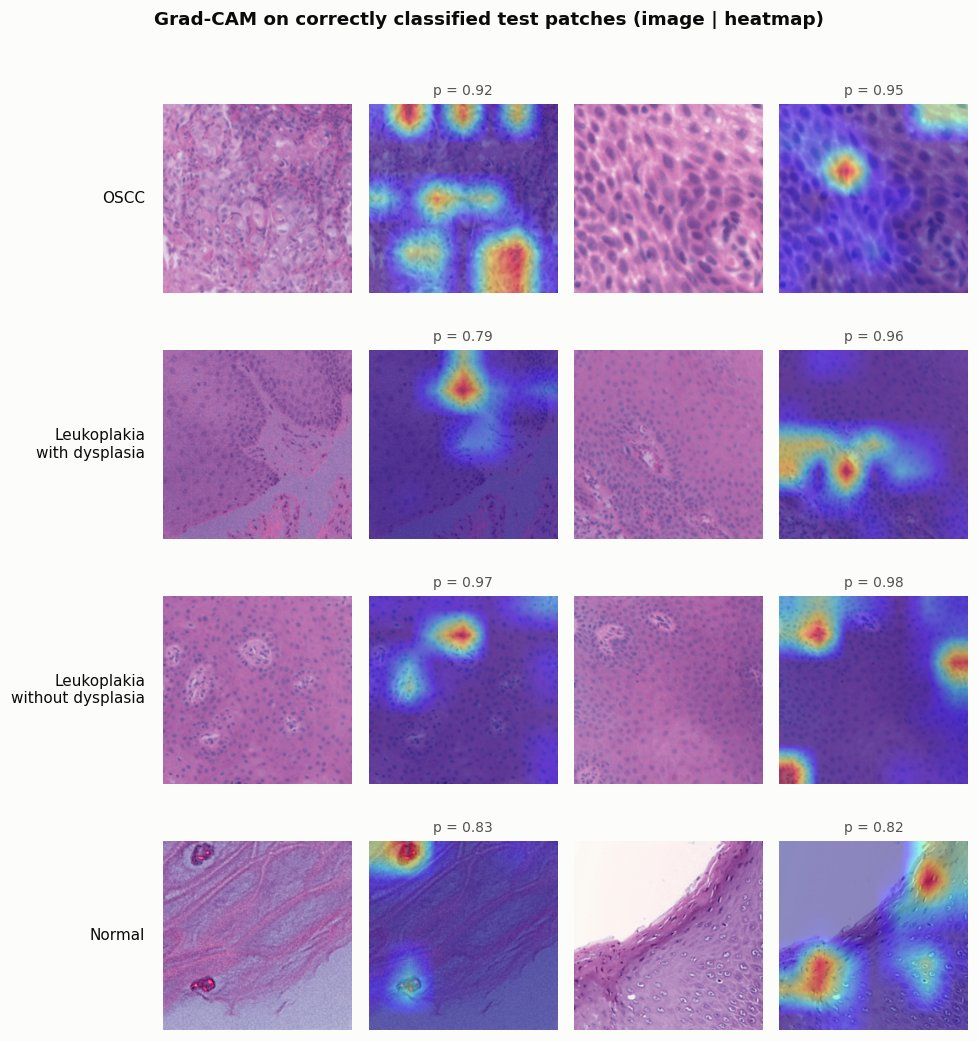
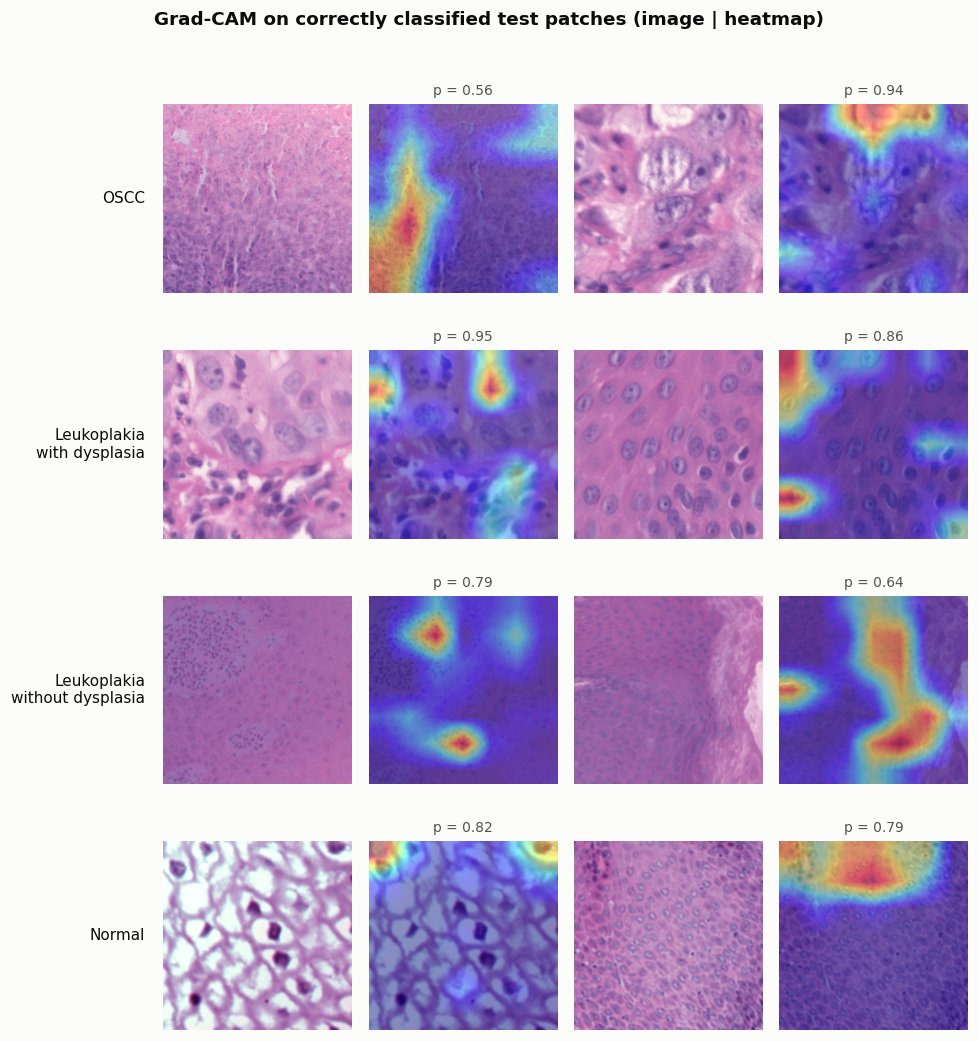
Update results after sharpness matching; make 3-class the primary result
- Retrained on sharpness-matched data: 3-class 90.9% balanced accuracy
  (primary, vs 91.9% published), 4-class 88.6%, greyscale 91.6%;
  Normal F1 still 98.9%
- Grad-CAM re-check: Normal border share only fell from ~65% to ~60%,
  so Normal is still recognised from image-level source cues (likely
  brightness/contrast); documented as a cross-dataset limitation
- README: new results, before/after tables, updated explainability,
  limitations and status
- Figures: 3-class + 4-class confusion matrices, before/after border
  check, regenerated curves, per-class F1 and Grad-CAM
- docs/guide_presentation.md: plain-language walkthrough for the guide
- CLAUDE.md status; .gitignore runs_before_blur/

diff --git a/scripts/reporting/make_readme_figures.py b/scripts/reporting/make_readme_figures.py
@@ -267,25 +267,32 @@ def fig_training_curves():
 # 5. CLASSIFICATION: CONFUSION MATRIX
 # ============================================================
 
-def fig_confusion_matrix():
-    preds = pd.read_csv(RUNS / MAIN_RUN / "test_predictions.csv")
-    cm = confusion_matrix(preds["class"], preds["predicted"], labels=CLASSES_4)
+def draw_confusion(ax, run, classes, title):
+    preds = pd.read_csv(RUNS / run / "test_predictions.csv")
+    cm = confusion_matrix(preds["class"], preds["predicted"], labels=classes)
     pct = cm / cm.sum(axis=1, keepdims=True) * 100
+    n = len(classes)
 
-    fig, ax = plt.subplots(figsize=(6.6, 5.6))
     ax.imshow(pct, cmap="Blues", vmin=0, vmax=100)
-    labels = [CLASS_LABELS[c] for c in CLASSES_4]
-    ax.set_xticks(range(4), labels, fontsize=9)
-    ax.set_yticks(range(4), labels, fontsize=9)
+    labels = [CLASS_LABELS[c] for c in classes]
+    ax.set_xticks(range(n), labels, fontsize=9)
+    ax.set_yticks(range(n), labels, fontsize=9)
     ax.set_xlabel("Predicted")
     ax.set_ylabel("True")
-    for i in range(4):
-        for j in range(4):
+    for i in range(n):
+        for j in range(n):
             ax.text(j, i, f"{pct[i, j]:.1f}%\n({cm[i, j]})", ha="center", va="center", fontsize=9,
                     color="white" if pct[i, j] > 55 else TEXT_PRIMARY)
     for s in ax.spines.values():
         s.set_visible(False)
-    ax.set_title("Test confusion matrix — 4-class (n = 1,049)", loc="left")
+    ax.set_title(f"{title} (n = {cm.sum():,})", loc="left")
+
+
+def fig_confusion_matrix():
+    fig, axes = plt.subplots(1, 2, figsize=(13, 5.6), gridspec_kw={"width_ratios": [3, 4]})
+    draw_confusion(axes[0], "convnext_tiny_3class_224px", CLASSES_4[:3], "3-class, NDB-UFES (primary)")
+    draw_confusion(axes[1], MAIN_RUN, CLASSES_4, "4-class")
+    fig.suptitle("Test confusion matrices", fontweight="bold", x=0.01, ha="left")
     plt.tight_layout()
     save(fig, "confusion_matrix.png")
 
@@ -372,26 +379,34 @@ def fig_border_check():
         ("Normal (interior of source image)", "Normal: interior tiles"),
         ("Normal (edge of source image)", "Normal: edge tiles"),
     ]
-    summary = summary.set_index("group").loc[[g for g, _ in order]]
+    groups = [g for g, _ in order]
 
-    fig, ax = plt.subplots(figsize=(9, 3.6))
-    y = np.arange(len(order))[::-1]
-    colors = [SERIES[0]] * 3 + [SERIES[1]] * 2
-    vals = summary["border_share_mean"].values * 100
-    ax.barh(y, vals, height=0.6, color=colors)
-    for yi, v, n in zip(y, vals, summary["images"].values):
-        ax.text(v + 0.8, yi, f"{v:.0f}%  (n = {n})", va="center", fontsize=9)
+    # Before = model trained before sharpness matching (runs_before_blur/),
+    # after = current model (runs/)
+    series = [("before sharpness matching", RUNS.parent / "runs_before_blur"), ("after", RUNS)]
+    series = [(label, root) for label, root in series
+              if (root / MAIN_RUN / "gradcam" / "border_check_summary.csv").exists()]
+
+    fig, ax = plt.subplots(figsize=(9.5, 4.4))
+    y = np.arange(len(order))[::-1].astype(float)
+    height = 0.8 / len(series)
+
+    for k, (label, root) in enumerate(series):
+        s = pd.read_csv(root / MAIN_RUN / "gradcam" / "border_check_summary.csv").set_index("group").loc[groups]
+        vals = s["border_share_mean"].values * 100
+        offset = (len(series) - 1) / 2 * height - k * height
+        ax.barh(y + offset, vals, height=height * 0.9, color=SERIES[k], label=label)
+        for yi, v in zip(y + offset, vals):
+            ax.text(v + 0.8, yi, f"{v:.0f}%", va="center", fontsize=8.5)
 
     ax.axvline(49.0, color=TEXT_SECONDARY, linewidth=1, linestyle="--")
-    ax.text(49.6, y.min() - 0.62, "even spread (49%)", ha="left", fontsize=8, color=TEXT_SECONDARY)
-    ax.set_ylim(y.min() - 0.9, y.max() + 0.5)
+    ax.text(49.6, y.min() - 0.68, "even spread (49%)", ha="left", fontsize=8, color=TEXT_SECONDARY)
+    ax.set_ylim(y.min() - 0.9, y.max() + 0.6)
     ax.set_yticks(y, [label for _, label in order])
     ax.set_xlim(0, 100)
-    ax.set_xlabel("Share of Grad-CAM heatmap on the patch border (%)")
-    ax.set_title("Normal predictions rely on patch borders, not localized tissue", loc="left")
-    ax.legend(handles=[mpatches.Patch(color=SERIES[0], label="NDB-UFES classes"),
-                       mpatches.Patch(color=SERIES[1], label="Normal (second dataset)")],
-              loc="upper right")
+    ax.set_xlabel("Share of Grad-CAM heatmap on the patch border (%), all 1,049 test images")
+    ax.set_title("Normal predictions still rely on patch borders after sharpness matching", loc="left")
+    ax.legend(loc="upper right")
     clean_axes(ax, grid_axis="x")
     save(fig, "gradcam_border_check.png")
 

diff --git a/README.md b/README.md
@@ -15,12 +15,12 @@ Deep-learning pipeline for **four-class classification of oral histopathology pa
 
 | | Result |
 |---|---|
-| **4-class ConvNeXt-Tiny** (test, n = 1,049) | **92.8% balanced accuracy · 92.5% macro-F1 · 0.982 macro AUC** |
-| NDB-UFES classes within the 4-class model | 91.1% balanced accuracy (published DenseNet-121 benchmark: 91.9%) |
+| **3-class ConvNeXt-Tiny** (primary; NDB-UFES, test n = 627) | **90.9% balanced accuracy · 90.6% macro-F1 · 0.980 macro AUC** (published DenseNet-121 benchmark on the same folds: 91.9%) |
+| 4-class ConvNeXt-Tiny (+ Normal, test n = 1,049) | 88.6% balanced accuracy · 89.4% macro-F1 · Normal F1 98.9% (cross-dataset, see below) |
 | **MedSAM segmentation** (all 6,626 patches) | Masks cover a median **95–98%** of each patch, so the ROI is the whole patch |
-| Explainability | Grad-CAM + a sharpness test show **Normal** is recognised largely from image sharpness (AUC 0.95 from one number), a dataset shortcut. It is now mitigated by sharpness matching; retraining is pending |
+| **Shortcut analysis** | The Normal class is separable by image-level properties of its source dataset (sharpness, brightness, contrast). Sharpness was removed by calibrated blur; Grad-CAM still shows border-focused, image-level evidence for Normal |
 
-These are results from a single training run per setting. See [Limitations](#limitations).
+These are results from a single training run per setting; between single runs, scores varied by 3–5 points. See [Limitations](#limitations).
 
 ---
 
@@ -130,15 +130,25 @@ A meaningful segmentation target for this data would be the **epithelium**, wher
 
 ### Results (test set)
 
-*Models trained **before** sharpness matching; retraining on the sharpness-matched data is pending.*
+Current models are trained on the **sharpness-matched** data (see [Explainability](#explainability-grad-cam)).
 
-| Run | Accuracy | Balanced acc. | Macro-F1 | Macro AUC |
-|---|---|---|---|---|
-| **4-class** | **94.2%** | **92.8%** | **92.5%** | **0.982** |
-| 4-class, greyscale input | 92.5% | 91.2% | 90.4% | 0.981 |
-| 3-class (NDB-UFES only) | 89.6% | 88.3% | 89.0% | 0.972 |
+| Run | Accuracy | Balanced acc. | Macro-F1 | Macro AUC | Normal F1 |
+|---|---|---|---|---|---|
+| **3-class, NDB-UFES (primary)** | **90.9%** | **90.9%** | **90.6%** | **0.980** | — |
+| 4-class | 91.9% | 88.6% | 89.4% | 0.981 | 98.9% |
+| 4-class, greyscale input | 93.2% | 91.6% | 91.5% | 0.981 | 98.3% |
 
-**Comparison with published work.** On the NDB-UFES test patches, the 4-class model reaches **91.1%** balanced accuracy, against **91.9%** for DenseNet-121 in Maia et al. (2024) on the same folds. The separate 3-class run (88.3%) stopped early and its validation scores fluctuated. With one run per setting, differences of 2–3 points are within run-to-run variation.
+**Why 3-class is the primary result.** All three NDB-UFES classes come from the same source, so the cross-dataset shortcut described below cannot apply. This makes it the fair comparison with published work: **90.9%** balanced accuracy vs **91.9%** for DenseNet-121 in Maia et al. (2024), on the same official folds.
+
+**Before vs after sharpness matching** (single runs each):
+
+| Run | Balanced acc. before | Balanced acc. after |
+|---|---|---|
+| 3-class | 88.3% | 90.9% |
+| 4-class | 92.8% | 88.6% |
+| 4-class, greyscale | 91.2% | 91.6% |
+
+The 3-class data was not changed by sharpness matching (it contains no Normal tiles), yet its score moved by 2.6 points, mainly through run-to-run variation (the blur augmentation was also added). Single-run differences of this size are therefore not meaningful; multi-seed runs (mean ± SD) are planned.
 
 ![Confusion matrix](docs/images/confusion_matrix.png)
 
@@ -154,13 +164,14 @@ Errors are almost entirely between **adjacent grades** (OSCC ↔ with dysplasia,
 
 ![Grad-CAM examples](docs/images/gradcam_examples.jpg)
 
-For the NDB-UFES classes, heatmaps highlight tissue regions such as cell-dense areas and atypical nuclei. For **Normal**, the strongest activation often lies at the patch edge. A border-focus check over **all** 1,049 test images quantifies this:
+For the NDB-UFES classes, heatmaps highlight tissue regions such as cell-dense areas and atypical nuclei. For **Normal**, the strongest activation often lies at the patch edge, mostly the top edge. A border-focus check over **all** 1,049 test images quantifies this, both for the model trained before sharpness matching and for the current model:
 
 ![Grad-CAM border check](docs/images/gradcam_border_check.png)
 
-- **NDB-UFES classes:** heatmaps are spread about as evenly as chance (49–54% of the heatmap on the border).
-- **Normal:** two thirds of the heatmap lies on the border, and the peak is on the border in 71–78% of images.
-- Tiles from the edge and from the interior of the source image behave the same, which **rules out** lighting or edge artefacts of the original microscope images.
+- **NDB-UFES classes:** heatmaps are spread about as evenly as chance (46–54% of the heatmap on the border).
+- **Normal, before sharpness matching:** about two thirds of the heatmap lies on the border, and the peak is on the border in 71–78% of images.
+- **Normal, after sharpness matching:** still 59–61% on the border, and the peak is on the border in 71–79% of images.
+- Tiles from the edge and from the interior of the source image behave the same, which **rules out** lighting or edge artefacts of the original microscope images. The top rows of Normal tiles are also no brighter than the rest (157 vs 154 mean intensity), so the edge focus is not a visible artefact in the pixels. It is how the network represents an image-level property.
 
 **Sharpness test.** Each global image property is reduced to one number per image and used *alone* to separate Normal from the NDB-UFES classes (250 images per class, `scripts/analysis/check_sharpness.py`):
 
@@ -172,15 +183,22 @@ For the NDB-UFES classes, heatmaps highlight tissue regions such as cell-dense a
 
 Normal tiles are about 5× sharper. This global property explains both the border-focused Grad-CAM and Normal staying at ~99% F1 in greyscale: the earlier Normal result was largely a **dataset shortcut**.
 
-**Mitigation.** A Gaussian blur on Normal tiles was calibrated by sweeping σ. σ = 2.5 px (512 px) was chosen. On the regenerated, sharpness-matched data, the sharpness AUC at the model's 224 px input dropped from 0.95 to **0.52**. Brightness and contrast cues remain (AUC 0.76 / 0.81) and are addressed by colour/brightness augmentation. The cross-dataset Normal class therefore stays a documented limitation, and the **3-class NDB-UFES result is the primary, shortcut-free benchmark**.
+**Mitigation.** A Gaussian blur on Normal tiles was calibrated by sweeping σ. σ = 2.5 px (512 px) was chosen. On the regenerated, sharpness-matched data, the sharpness AUC at the model's 224 px input dropped from 0.95 to **0.52**. Brightness and contrast cues remain (AUC 0.76 / 0.81); Normal tiles are clearly brighter (mean intensity ~155 vs ~141).
+
+**Result after retraining.** Normal F1 stayed at 98.9% (98.3% in greyscale), and the Grad-CAM border focus for Normal only dropped from ~65% to ~60%. Removing sharpness did **not** force the model to use localised tissue features for Normal. It still separates Normal by image-level differences between the two source datasets, most likely brightness and contrast.
+
+**Conclusion.**
+- The high Normal score cannot be read as evidence that the model recognises normal tissue.
+- Combining two datasets creates source-level cues that colour normalisation, tiling and sharpness matching do not fully remove.
+- The **3-class NDB-UFES result is the primary benchmark**. The 4-class result is reported with this documented limitation.
 
 ---
 
 ## Limitations
 
 - **Patch-level folds.** The official NDB-UFES folds were created by stratified K-fold over *patches*, not patients. Patches from the same patient can appear in training and test, so all NDB-UFES results, including published ones, are likely optimistic.
-- **Cross-dataset Normal class.** Normal comes from a different institution. Sharpness, brightness and contrast differ between the sources. Sharpness is matched by calibrated blur; brightness and contrast are only weakened by augmentation.
-- **Single runs.** Each setting was trained once; results should be reported as mean ± SD over several seeds.
+- **Cross-dataset Normal class.** Normal comes from a different institution. Sharpness, brightness and contrast differ between the sources. Even after sharpness matching, Grad-CAM shows Normal is recognised from image-level properties, so the Normal score (~99% F1) is not evidence of tissue-level recognition. A Normal class from the same institution as the other classes would be needed to remove this.
+- **Single runs.** Each setting was trained once, and scores varied by 3–5 points between runs. Results should be reported as mean ± SD over several seeds.
 - **No ground-truth masks.** Segmentation quality (Dice/IoU) cannot be measured without reference annotations.
 
 ---
@@ -225,6 +243,7 @@ oral-cancer-detection/
 │   └── convnext_training_kaggle.ipynb
 │
 └── docs/
+    ├── guide_presentation.md       # Plain-language walkthrough for presenting the project
     └── images/                     # Figures used in this README
 
 # Local only (git-ignored): dataset_1_ndb_ufes/, dataset_2_normal/, splits/,
@@ -297,8 +316,9 @@ Paths default to the project folder. Override them with `ORAL_CANCER_DATA_ROOT` 
 | ConvNeXt-Tiny 4-class / 3-class / greyscale | ✅ Done (single seed) |
 | Grad-CAM + border-focus check | ✅ Done |
 | Identify the Normal shortcut (sharpness) and calibrate a blur fix | ✅ Done |
-| Retrain on sharpness-matched data | ⏳ Next |
-| Multi-seed runs (mean ± SD), 384 px experiment | ⏳ Planned |
+| Retrain on sharpness-matched data + Grad-CAM re-check | ✅ Done (Normal still image-level; 3-class is primary) |
+| Multi-seed runs (mean ± SD) | ⏳ Next |
+| 384 px experiment | ⏳ Planned |
 | Final report / paper write-up | ⏳ Planned |
 | Inference script / demo | ⏳ Planned |
 | Epithelium segmentation with manual annotations | 💡 Optional |

diff --git a/docs/guide_presentation.md b/docs/guide_presentation.md
@@ -1,0 +1,102 @@
+# Presenting the Project to the Guide
+
+A simple walkthrough to use while scrolling through the [README](../README.md). It follows the README's order. For each part: **what to show** and **what to say**.
+
+---
+
+## 1-minute summary (say this first)
+
+"Our project classifies microscope images of oral tissue into four groups: **cancer (OSCC)**, **pre-cancer (leukoplakia with dysplasia)**, **leukoplakia without dysplasia**, and **normal tissue**. Our plan was two steps: first find the lesion with a segmentation model (**MedSAM**), then classify it with **ConvNeXt-Tiny**. We built and tested both. On the three classes from the main dataset, our classifier reaches **about 91% balanced accuracy**, close to the best published result (91.9%). We also discovered that the Normal class, which comes from a different dataset, can be recognised from image-level differences between the two datasets instead of tissue. We investigated and documented this carefully."
+
+---
+
+## Section by section
+
+### 1. Key results (top of README)
+**Show:** the results table.
+**Say:**
+- "Our main result is the **3-class model: 90.9% balanced accuracy**. Balanced accuracy means it's about 91% right *for each class on average*, which is fairer than plain accuracy when some classes have fewer images."
+- "The best published result on the same dataset and the same official split is 91.9%, so we're at the published level."
+- "We also have a 4-class model including Normal (88.6%, with Normal at 99%). But we show that Normal's 99% comes from differences between the two datasets, not from the tissue. That's why the 3-class result is our main one."
+- "Segmentation didn't help on our data. I'll explain why."
+
+### 2. Pipeline (flowchart)
+**Show:** the flowchart.
+**Say:** "These are the steps: get the data → split into train/validation/test → cut images into equal tiles → make the colours consistent → segmentation → classification → explain the predictions."
+
+### 3. Datasets
+**Show:** the dataset table and the sample-image grid.
+**Say:**
+- "We used two public datasets. The first one, **NDB-UFES**, has cancer and leukoplakia, 3,763 images from 69 patients. It has no normal tissue, so we took **normal images from a second dataset**."
+- "Both are free to use for research (CC BY 4.0)."
+- "We split the data into **train** (to learn), **validation** (to choose the best model) and **test** (used only once, at the end). For the first dataset we used the authors' **official split**, so our results are comparable with published papers."
+
+### 4. Preprocessing
+**Show:** the preprocessing figure.
+**Say:**
+- "The normal images were 4 times larger, so we **cut them into tiles** of the same size instead of shrinking them. Shrinking would make cells look smaller, and the model could tell the datasets apart just from cell size."
+- "We **removed tiles that were mostly empty glass**."
+- "We **standardised the stain colours** (Macenko normalisation), because the two hospitals' slides have different pink/purple shades."
+- "We also **blurred the normal tiles slightly**, because they were much sharper than the other dataset. More on that later."
+
+### 5. Segmentation (MedSAM)
+**Show:** the mask-coverage chart and the example masks.
+**Say:**
+- "We ran MedSAM, a medical segmentation model, on all 6,626 images using Kaggle's free GPU."
+- "**Finding:** MedSAM marked about **95–98% of every image** as the region of interest. In other words, it just selected the whole image."
+- "**Reason:** the dataset images are already cropped from *inside* the lesion. There's no separate 'lesion region' to find; the whole image is lesion."
+- "So we classify the whole image. This is an honest negative result: we tested the idea, and it doesn't add value for this kind of data."
+- "A useful segmentation for the future would be the **epithelium** (the surface tissue layer where dysplasia is judged). But that needs hand-drawn masks to train."
+
+### 6. Classification (ConvNeXt-Tiny)
+**Show:** the results table, confusion matrix and training curves.
+**Say:**
+- "We trained ConvNeXt-Tiny, a modern image model, starting from ImageNet-pretrained weights."
+- "We trained three versions:
+  - **4-class**: our main model;
+  - **3-class**: without Normal, to compare directly with papers;
+  - **greyscale**: to check whether colour was being used as a shortcut."
+- **Confusion matrix:** "Most mistakes are between *neighbouring* stages, cancer vs pre-cancer or pre-cancer vs no dysplasia. It never confuses cancer with the 'no dysplasia' class. Even pathologists find these neighbouring stages hard."
+
+### 7. Explainability (Grad-CAM): the important discovery
+**Show:** the Grad-CAM images, then the border-check chart.
+**Say:**
+- "Grad-CAM shows **where the model looks**, as a heatmap. For cancer and leukoplakia it looks at tissue and cells, which is good."
+- "For **Normal**, it was looking at the **edges of the image**, not the tissue. That was suspicious."
+- "We tested it: **image sharpness alone**, one number per image, could tell Normal apart **95% of the time**. The Normal images were simply much sharper, because they came from a different hospital and camera setup."
+- "So the model was partly recognising *'this is a sharp image'* instead of *'this is normal tissue'*. That's called a **shortcut**."
+- "**Our fix:** we blurred the Normal images to match. Now sharpness can't tell them apart anymore (from 95% down to about 52%, which is chance level)."
+- "**Then we retrained and checked again:** Normal stayed at 99%, and the heatmaps still looked at the edges. So the model still uses other image-wide differences, mainly that the Normal images are brighter."
+- "**Our conclusion:** when you combine two datasets, the model can learn *which dataset* an image came from. Colour normalisation, tiling and blurring reduce this but can't fully remove it. That's why we treat the **3-class result** as our main result. Fixing it properly would need normal tissue from the same hospital as the other classes."
+
+### 8. Limitations (be upfront; guides appreciate this)
+**Say:**
+- "The official dataset split is by image piece, not by patient, so the same patient can be in train and test. Published results have the same issue."
+- "Normal comes from a different dataset, so some differences (brightness, contrast) remain."
+- "Each model was trained once. For the final report we'll train each 3 times and report the average."
+
+### 9. Project structure and Getting started
+**Say:** "The code is organised by stage: data, analysis, segmentation, classification, reporting. Everything can be re-run with one command per step, and the GPU steps run on Kaggle."
+
+---
+
+## Where we are: about 75–80% done
+
+| Done ✅ | Still to do ⏳ |
+|---|---|
+| Literature survey, dataset and design | Train each model **3 times** and report the average *(scores vary 3–5 points between single runs)* |
+| Data pipeline: splits, tiling, colour standardisation | Try a **larger image size** (384px) for finer cell detail |
+| MedSAM segmentation on all images (finding documented) | **Prediction tool**: upload an image, get class + heatmap |
+| ConvNeXt classification (3 versions, retrained after the fix) | **Final report** / paper write-up |
+| Grad-CAM, shortcut found, blur fix tested, finding documented | *Optional:* epithelium segmentation (needs hand-drawn masks) |
+
+---
+
+## Questions the guide may ask
+
+- **"Why didn't segmentation work?"** The images are already cut from inside the lesion, so the whole image is the lesion. MedSAM had nothing smaller to isolate.
+- **"Then why keep MedSAM in the project?"** We tested the hypothesis properly on all 6,626 images. A tested negative result is a valid research finding. Grad-CAM now does the "where is the problem" part.
+- **"Is 91% good?"** Yes. It's at the level of the best published result on this dataset (91.9%), with the same official split.
+- **"Why is your main result 3-class and not 4-class?"** The Normal images come from another dataset, and we proved the model partly recognises *which dataset* an image is from. The 3 main classes all come from one dataset, so that result is fair.
+- **"How do you know the model isn't cheating?"** We checked with a colour test, a greyscale model, Grad-CAM heatmaps, and a sharpness test. That's how we found the Normal shortcut. We fixed sharpness and re-checked, and documented what remains.
+- **"Why Kaggle?"** Our laptop has no GPU. Kaggle gives a free GPU, and the code runs there directly from our GitHub repo.

diff --git a/CLAUDE.md b/CLAUDE.md
@@ -59,23 +59,25 @@ Pipeline order:
   - Grad-CAM puts about 65% of Normal heatmaps on the patch border, versus about 50% for the other classes. This happens for edge and interior tiles alike.
   - **Confirmed cause: sharpness.** Laplacian variance at 224px alone separates Normal with AUC 0.946; Normal is about 5x sharper. Brightness (0.83) and contrast (0.85) also differ.
   - **Fix:** `preprocess.py` blurs Normal tiles (`TILE_BLUR_SIGMA = 2.5`, calibrated with `check_sharpness --calibrate-blur`), which brings the sharpness AUC to about 0.50. Training adds random blur.
-  - Treat Normal results as optimistic. The 3-class NDB-UFES result is the primary benchmark.
+  - **After retraining on sharpness-matched data:** Normal F1 is still 98.9% (98.3% in greyscale), and its Grad-CAM border share only dropped from about 65% to about 60%. The model still uses image-level source cues, most likely brightness (Normal ~155 vs ~141) and contrast. The top rows of Normal tiles are not brighter in the pixels, so the edge focus is a representation effect, not an artefact.
+  - Decision (user, option A): do not chase this further. The 3-class NDB-UFES result is the primary benchmark (90.9% balanced accuracy after the fix); 4-class is reported with the limitation.
+  - Pre-fix runs are kept locally in `runs_before_blur/` (git-ignored) for before/after figures.
 - **NDB-UFES folds are patch-level**, not patient-level, so results are optimistic. This includes published benchmarks; the main one is Maia et al. 2024 with DenseNet-121 at 91.9% balanced accuracy.
 - **SAM/MedSAM at 1024px uses about 0.8 GB of GPU memory per image** in one attention tensor. Keep the batch size at 2 or less and use fp16 on a T4.
 - **Tissue detection on the Normal images needs per-image optical density.** Their glass background has strong colour casts, which break fixed colour thresholds.
 
-## Current status (2026-10-13)
+## Current status (2026-10-14)
 
 **Done:**
 - data pipeline, splits, tiling, stain normalisation, colour-bias check;
 - MedSAM on the full dataset;
-- ConvNeXt 4-class, 3-class and greyscale runs (single seed);
+- ConvNeXt 4-class, 3-class and greyscale runs, before and after sharpness matching (single seed each);
 - Grad-CAM and the border check;
 - README figures.
 
 **Next:**
-1. Retrain on the sharpness-matched data (re-upload the Kaggle dataset first) and compare Normal accuracy with the pre-fix runs.
-2. Multi-seed runs (mean ± SD); a 384px experiment.
+1. Multi-seed runs, reported as mean ± SD (scores vary 3–5 points between single runs).
+2. A 384px experiment.
 3. Inference script / demo; final report.
 
 ## Working agreements with the user
